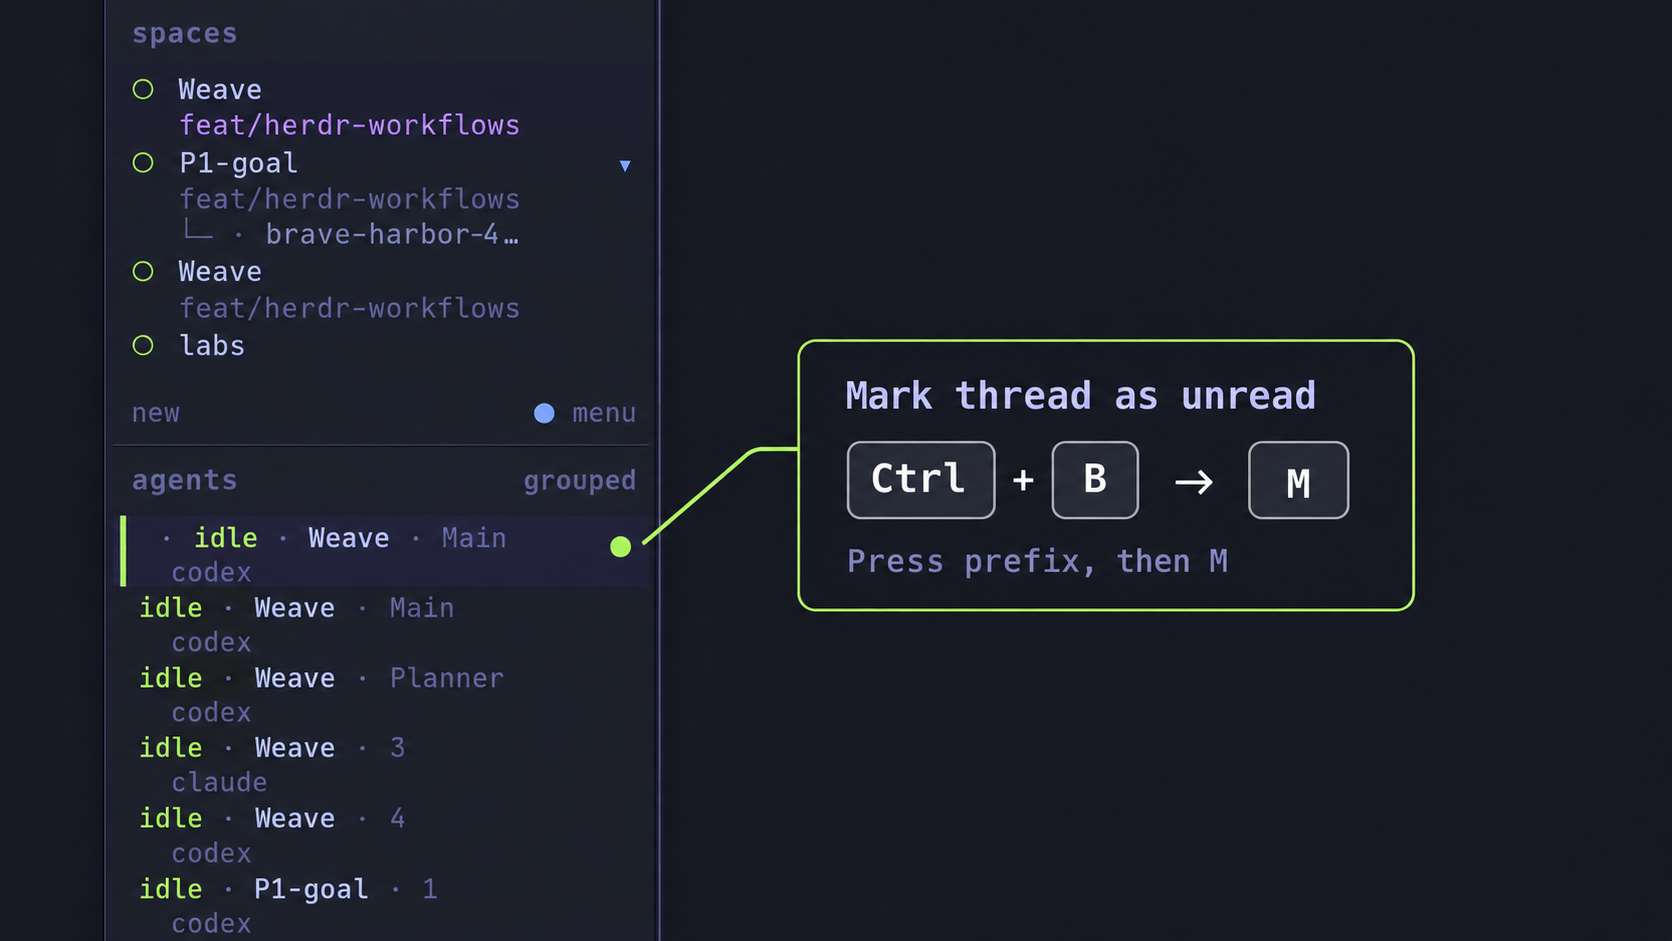
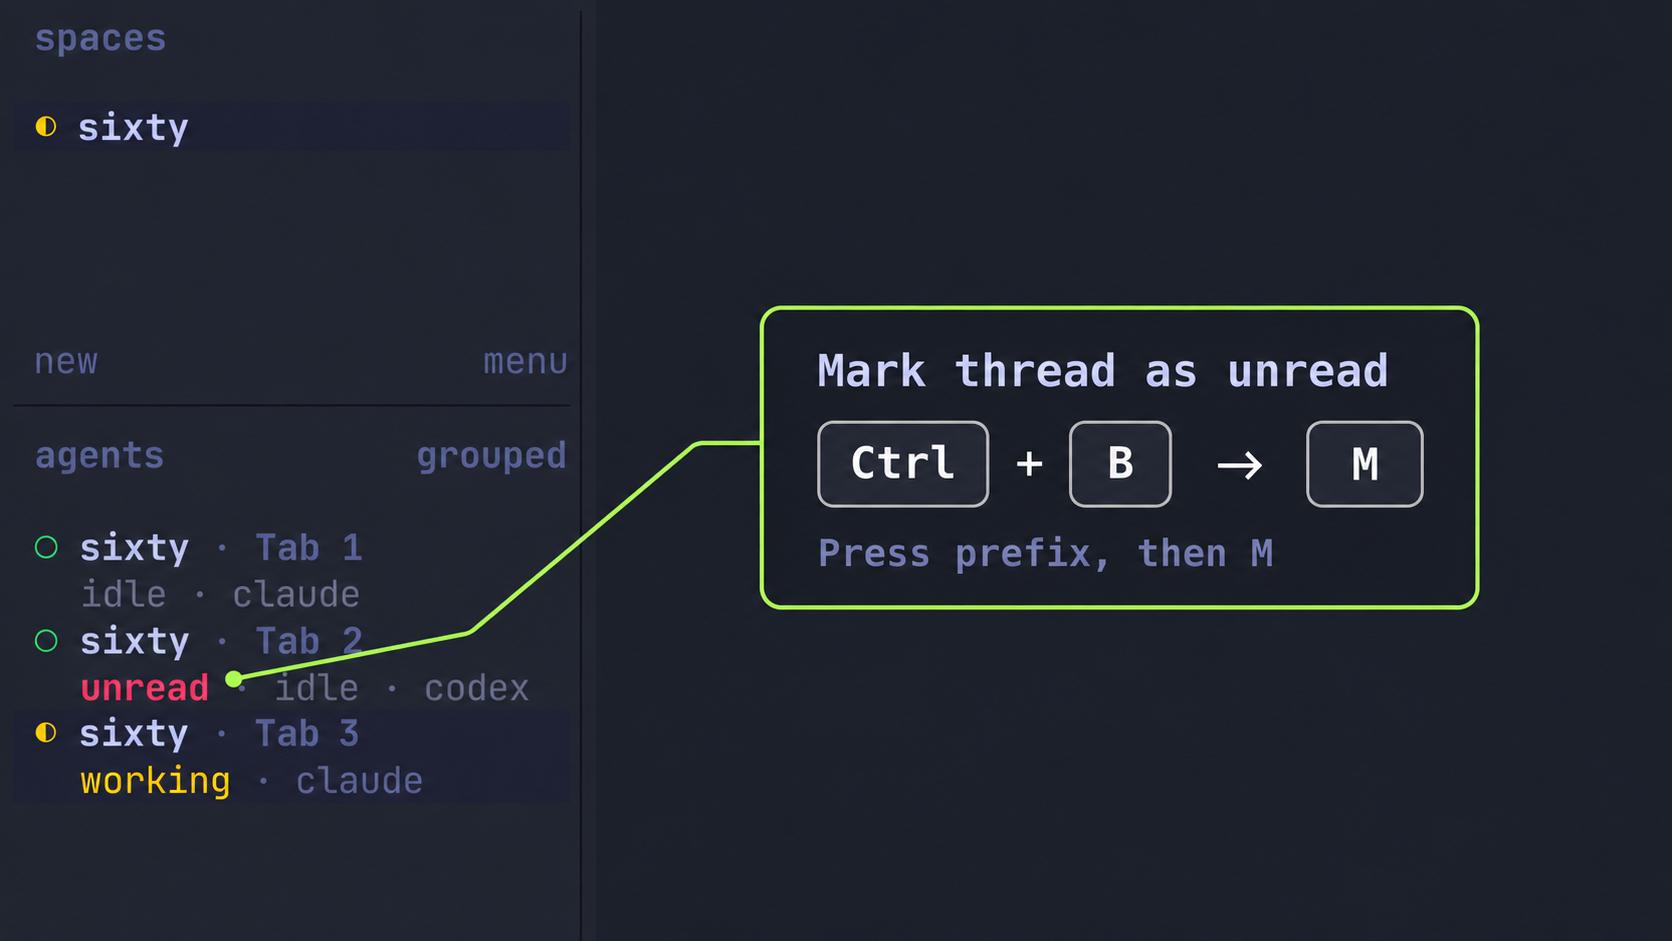
Update README preview to show the red unread badge

diff --git a/README.md b/README.md
@@ -1,6 +1,6 @@
 # Herdr Marks as Unread
 
-![Herdr sidebar showing an unread marker and the Control+B, then M shortcut](assets/mark-as-unread.png)
+![Herdr sidebar with a red unread badge on an agent and the Control+B, then M shortcut](assets/mark-as-unread.png)
 
 Keep track of agents you want to revisit. Add a red `unread` badge to the start of
 an agent's sidebar detail line, then have it clear automatically when
